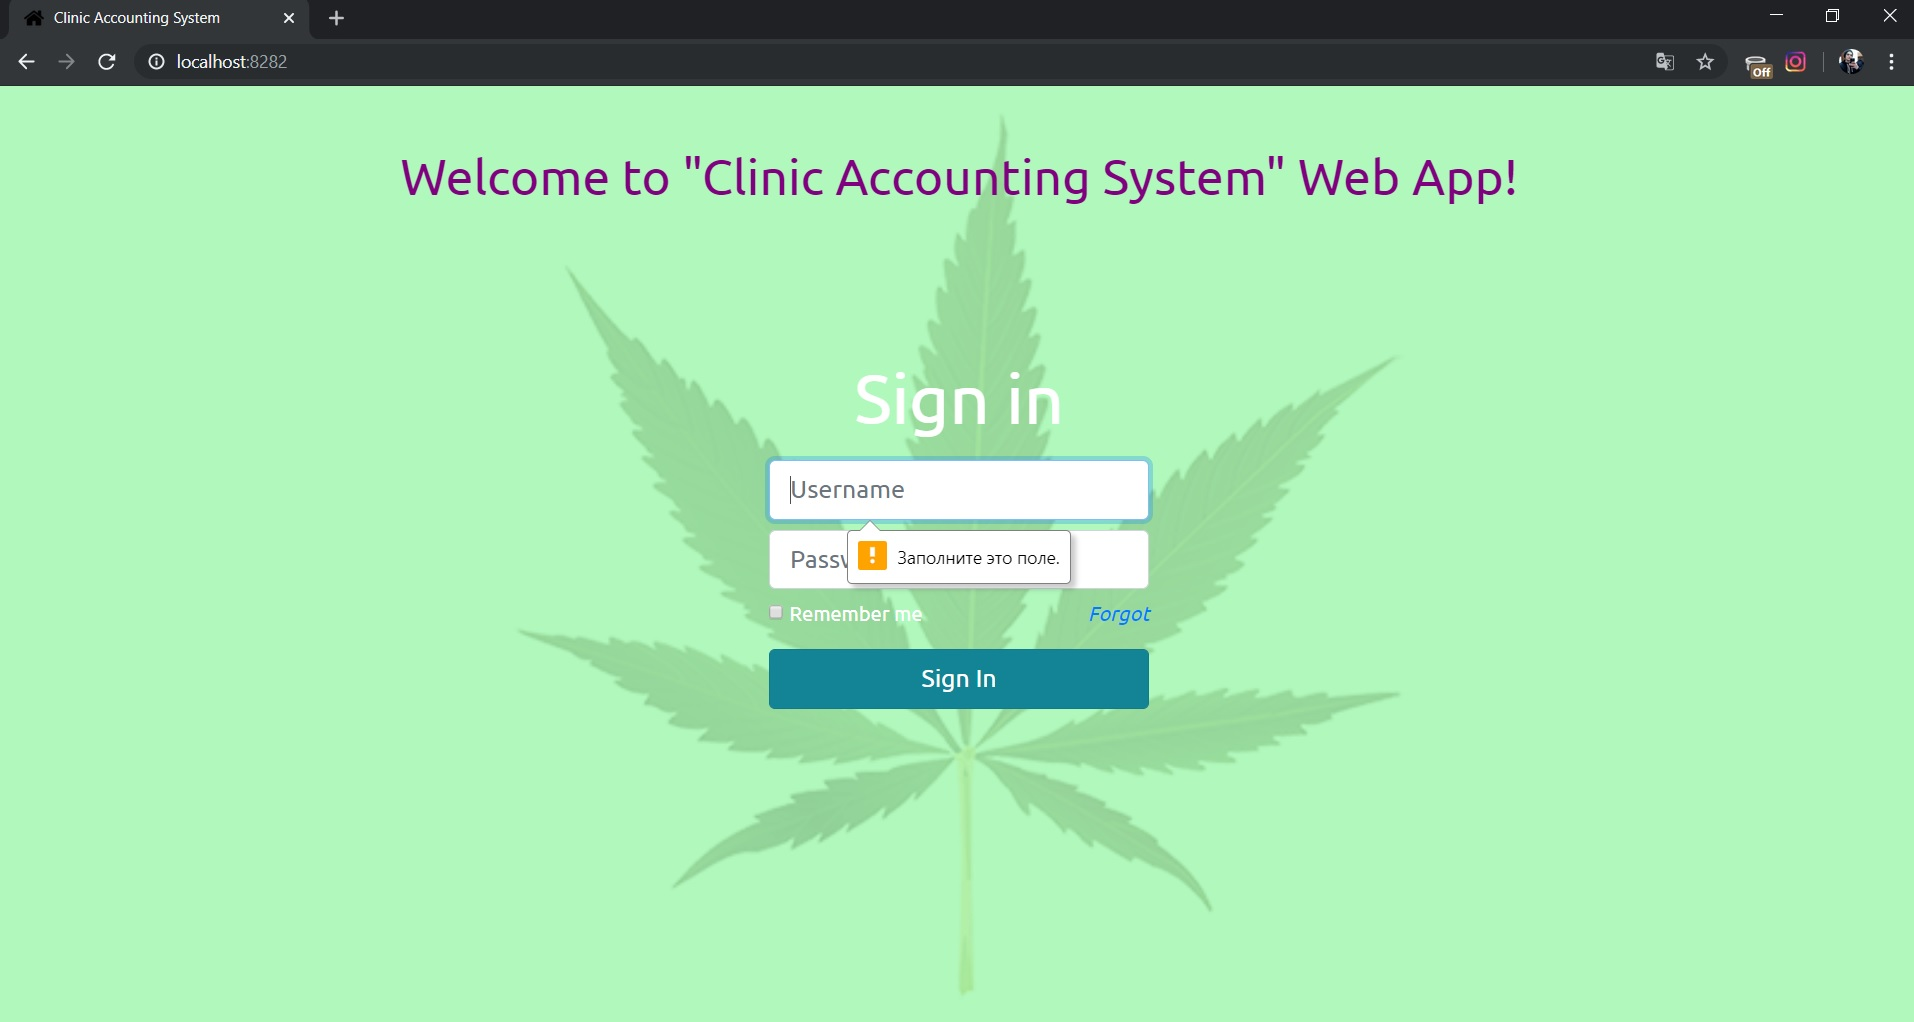
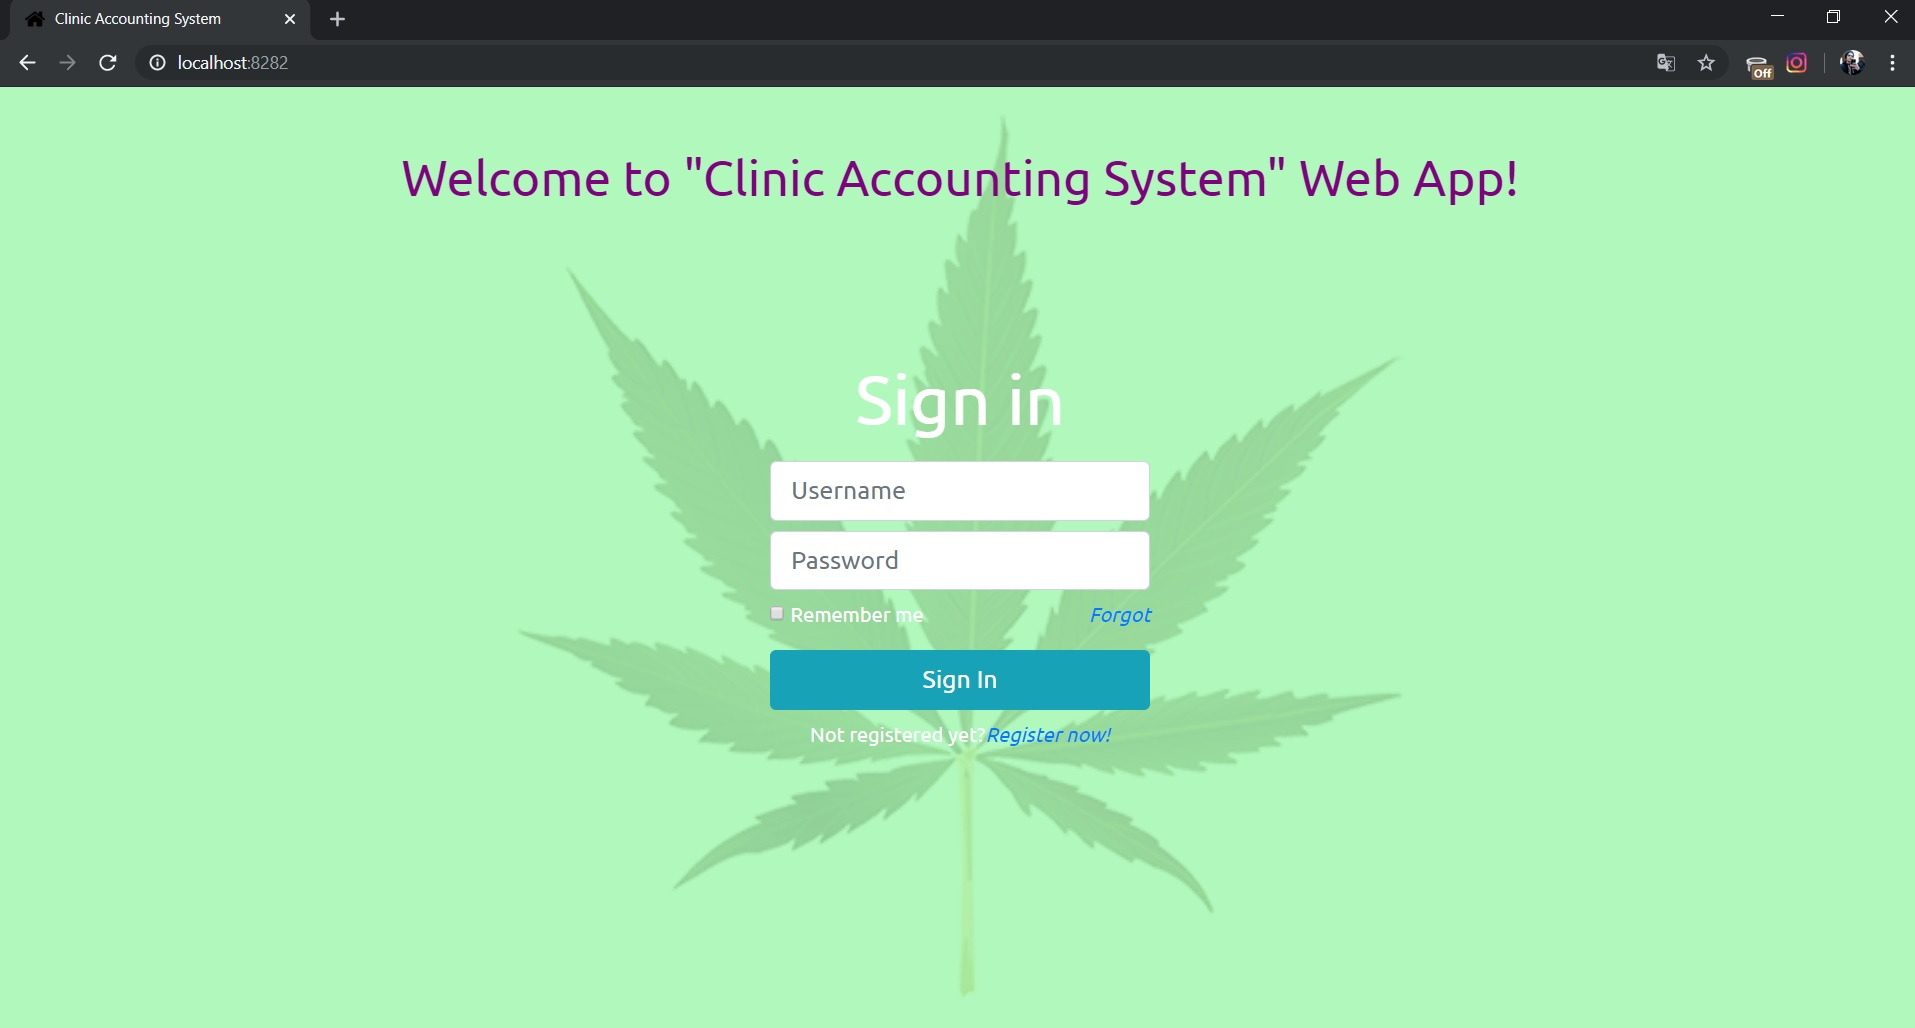
Registration module made. Begun work  on Forgot password logic

diff --git a/src/main/resources/static/js/registration/datePickerConfig.js b/src/main/resources/static/js/registration/datePickerConfig.js
@@ -1,0 +1,6 @@
+$(document).ready(function () {
+    $('#dobDatePicker').datepicker({
+        uiLibrary: 'bootstrap4',
+        format: 'yyyy-mm-dd'                       // choose american date format
+    });
+});

diff --git a/src/main/java/com/Clinic_Accounting_System/Clinic_Accounting_System/controllers/RegistrationController.java b/src/main/java/com/Clinic_Accounting_System/Clinic_Accounting_System/controllers/RegistrationController.java
@@ -28,7 +28,7 @@ public class RegistrationController {
 
     @GetMapping(value = "/")
     public String showAccountInfoForm(HttpServletRequest request){
-        HttpSession session = request.getSession(false);
+        HttpSession session = request.getSession(true);
         // going thru message by ticket system
         ControllerUtils.goThru_MessageByTicket_System(session);
         return "registration/new_account_application";
@@ -36,13 +36,13 @@ public class RegistrationController {
 
     @PostMapping(value = "/submitNewAccountApplicationForm")
     public String submitAccountInfoForm(HttpServletRequest request){
+        // creating new session to store params or error messages there
+        HttpSession session = request.getSession(true);
         // scraping params from request
         String reg_username = request.getParameter("reg_username");
         String reg_password = request.getParameter("reg_password");
         // checking on param existence
-        if(reg_username != null && reg_password != null) {
-            // creating new session to store params there
-            HttpSession session = request.getSession(true);
+        if(reg_username.length() >= 8 || reg_password.length() >= 8) {
             // checking if user with such username already exists in database
             if(!userService.existsByUsername(reg_username)){
                 // moving username and pwd params from request scope to session scope
@@ -54,6 +54,7 @@ public class RegistrationController {
                 return "redirect:/registration/";
             }
         } else {
+            ControllerUtils.giveTicketToMyMessage(session, "Username and password length should be no less then 8 characters!");
             return "redirect:/registration/";
         }
     }
@@ -81,7 +82,7 @@ public class RegistrationController {
                 // scrapping user info from form params
                 String firstname = request.getParameter("firstname");
                 String midname = request.getParameter("midname");
-                String lastname = request.getParameter("midname");
+                String lastname = request.getParameter("lastname");
                 Date dob = java.sql.Date.valueOf(request.getParameter("dob"));
                 String phone = request.getParameter("phone");
                 String email = request.getParameter("email");
@@ -89,9 +90,10 @@ public class RegistrationController {
                 // persist user info in database
                 UserInfo userInfo = new UserInfo(firstname, midname, lastname, dob, phone, email, homeAddress, user);
                 userInfoService.saveAndFlush(userInfo);
-                // give session sign_in token
-                session.setAttribute("user_id", user.getId());
-                // and redirect him to sign in
+                // take registration username and password
+                session.removeAttribute("reg_username");
+                session.removeAttribute("reg_password");
+                // and redirect new user to sign in page
                 return "redirect:/sign_in";
             } else {
                 ControllerUtils.giveTicketToMyMessage(session, "Sorry, but your username somebody already took!");
@@ -106,7 +108,7 @@ public class RegistrationController {
     private boolean checkSessionAttribsForRegOnExistence(HttpServletRequest request) {
         HttpSession session = request.getSession(false);
         if (session != null) {
-            return session.getAttribute("req_username") != null && session.getAttribute("req_password") != null;
+            return session.getAttribute("reg_username") != null && session.getAttribute("reg_password") != null;
         }
         return false;
     }

diff --git a/src/main/java/com/Clinic_Accounting_System/Clinic_Accounting_System/controllers/ForgotPassController.java b/src/main/java/com/Clinic_Accounting_System/Clinic_Accounting_System/controllers/ForgotPassController.java
@@ -1,0 +1,80 @@
+package com.Clinic_Accounting_System.Clinic_Accounting_System.controllers;
+
+import com.Clinic_Accounting_System.Clinic_Accounting_System.models.Users;
+import com.Clinic_Accounting_System.Clinic_Accounting_System.repositories.UsersRepository;
+import com.Clinic_Accounting_System.Clinic_Accounting_System.utils.ControllerUtils;
+import org.springframework.beans.factory.annotation.Autowired;
+import org.springframework.stereotype.Controller;
+import org.springframework.web.bind.annotation.GetMapping;
+import org.springframework.web.bind.annotation.PostMapping;
+import org.springframework.web.bind.annotation.RequestMapping;
+
+import javax.servlet.http.HttpServletRequest;
+import javax.servlet.http.HttpSession;
+
+@Controller
+@RequestMapping("/forgot")
+public class ForgotPassController {
+
+    @Autowired
+    UsersRepository userService;
+
+    @GetMapping(value = "/")
+    public String showForgotPage(HttpServletRequest request){
+        HttpSession session = request.getSession();
+        ControllerUtils.goThru_MessageByTicket_System(session);
+        return "forgot/get_username";
+    }
+
+    @PostMapping(value="/checkUsername")
+    public String checkUsername(HttpServletRequest request){
+        HttpSession session = request.getSession();
+        // scrapping username from request
+        String username = request.getParameter("username");
+        // checking in database on such username existence
+        Users user = userService.getByUsername(username);
+        if(user != null){
+            // moving username from request into session
+            session.setAttribute("forgot_page_username", username);
+            // and redirecting forward to receive code on email to restore password
+            return "redirect:/forgot/enter_email_code";
+        } else {
+            ControllerUtils.giveTicketToMyMessage(session, "User with such username do not exist!");
+            return "redirect:/forgot/";
+        }
+    }
+
+
+    @GetMapping(value="/enter_email_code")
+    public String enterEmailCode(HttpServletRequest request){
+        HttpSession session = request.getSession(false);
+        // firstly, checking if we have "forgot_page_username" attrib
+        if(checkForgotPageUsernameAttribInSession(session)){
+            // then
+            return "/forgot/enter_email_code";
+        } else {
+            return "redirect:/forgot/";
+        }
+    }
+
+    @PostMapping(value="/checkCode")
+    public String checkCode(HttpServletRequest request){
+        HttpSession session = request.getSession();
+        // firstly, checking if we have "forgot_page_username" attrib
+        if(checkForgotPageUsernameAttribInSession(session)){
+            return "/forgot/enter_email_code";
+        } else {
+            return "redirect:/forgot/";
+        }
+    }
+
+    private boolean checkForgotPageUsernameAttribInSession(HttpSession session){
+        if(session != null){
+            String username = (String)session.getAttribute("forgot_page_username");
+            return username != null;
+        } else {
+            return false;
+        }
+    }
+
+}

diff --git a/src/main/java/com/Clinic_Accounting_System/Clinic_Accounting_System/repositories/UsersRepository.java b/src/main/java/com/Clinic_Accounting_System/Clinic_Accounting_System/repositories/UsersRepository.java
@@ -10,7 +10,9 @@ import org.springframework.stereotype.Repository;
 @Repository
 public interface UsersRepository extends JpaRepository<Users, Long> {
 
-    public Users findByUsernameAndPassword(String username, String password);
+    Users findByUsernameAndPassword(String username, String password);
 
-    public boolean existsByUsername(String username);
+    boolean existsByUsername(String username);
+
+    Users getByUsername(String username);
 }

diff --git a/src/main/java/com/Clinic_Accounting_System/Clinic_Accounting_System/services/UserService.java b/src/main/java/com/Clinic_Accounting_System/Clinic_Accounting_System/services/UserService.java
@@ -9,14 +9,4 @@ import javax.transaction.Transactional;
 @Transactional
 public class UserService {
 
-    private final UsersRepository usersRepository;
-
-    public UserService(UsersRepository usersRepository) {
-        this.usersRepository = usersRepository;
-    }
-
-
-
-
-
 }
